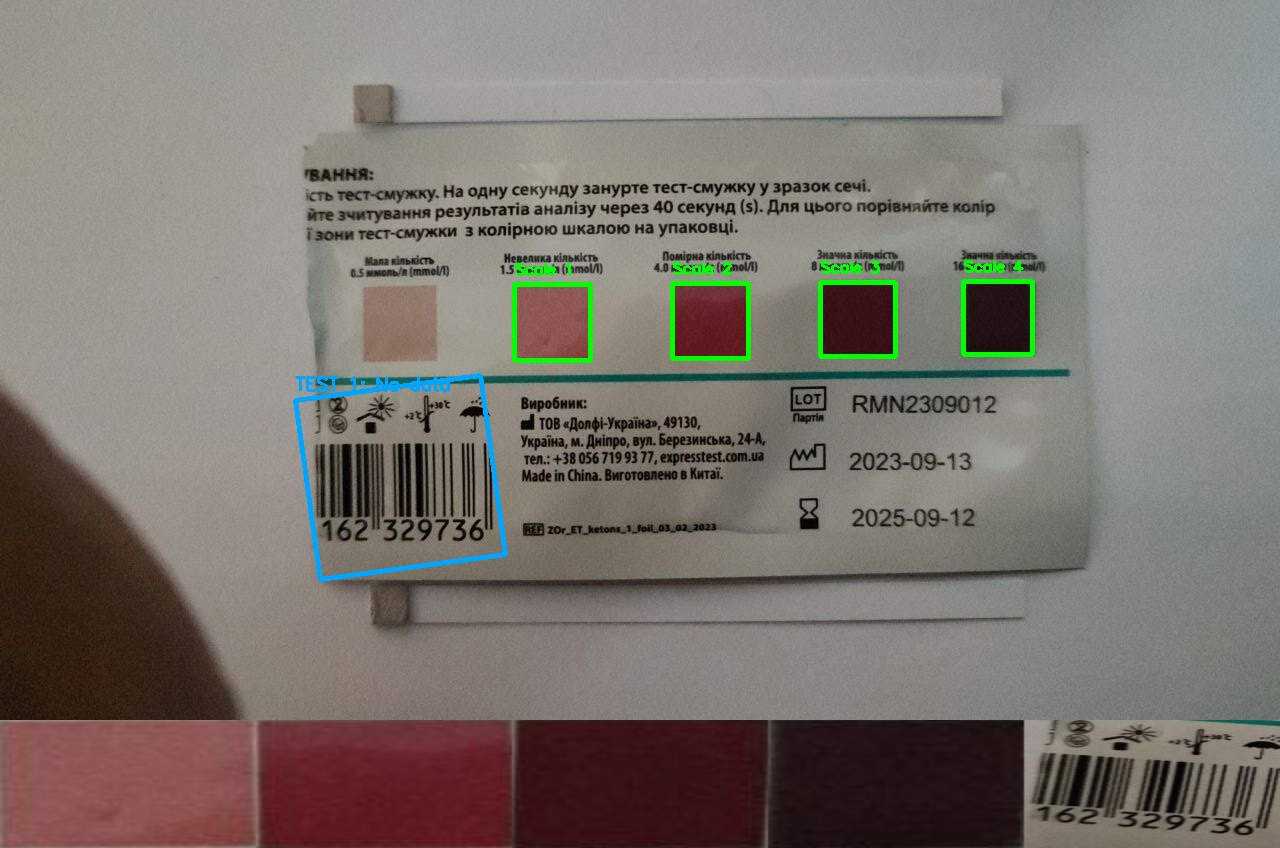
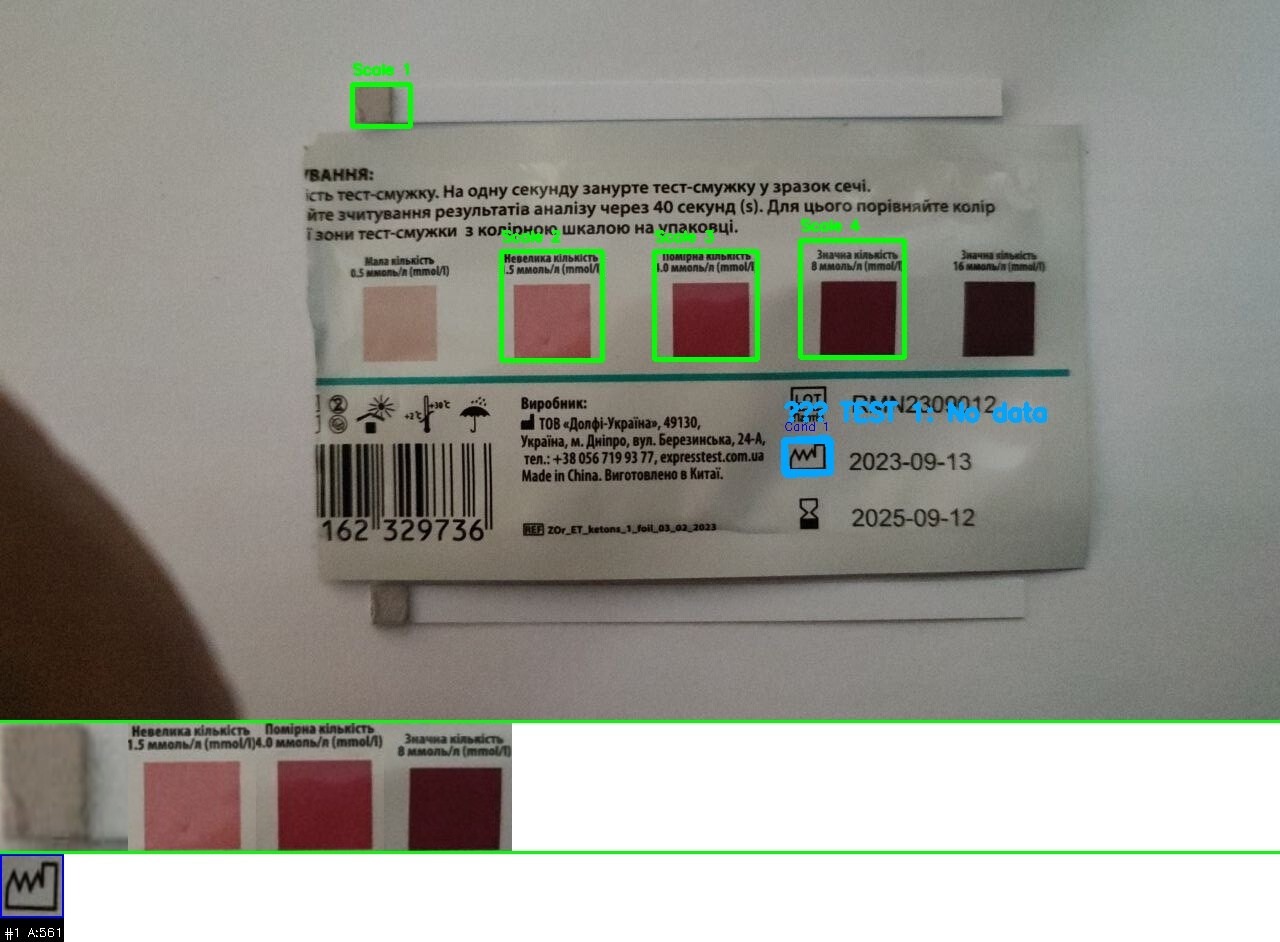
not good detection

diff --git a/auto_split_05.py b/auto_split_05.py
@@ -46,7 +46,9 @@ COLOR_TEXT = (255, 255, 255)   # белый - текст
 
 # Пути по умолчанию
 folder_path = 'кетоны/19_febr/'
-file = 'weeked_light_plus_yellow_lamp_rot'
+folder_path = 'кетоны/свет0.5-вид сверху/'
+file = 'weeked_light_rot'
+file = 'full'
 ext = '.jpg'
 
 # DEBUG флаги
@@ -312,19 +314,19 @@ def find_squares_in_image(img, a_min_ratio, a_max_ratio):
     hsv = cv2.cvtColor(img, cv2.COLOR_BGR2HSV)
     s_channel = hsv[:, :, 1]
     s_thresh = cv2.adaptiveThreshold(s_channel, 255, cv2.ADAPTIVE_THRESH_GAUSSIAN_C,
-                                     cv2.THRESH_BINARY, 31, -2)
+                                     cv2.THRESH_BINARY, 21, -2)
     
     # ДОПОЛНИТЕЛЬНАЯ маска для тёмных/чёрных объектов
     gray = cv2.cvtColor(img, cv2.COLOR_BGR2GRAY)
-    edges = cv2.Canny(gray, 30, 100)
-    kernel_edge = cv2.getStructuringElement(cv2.MORPH_RECT, (7, 7))
+    edges = cv2.Canny(gray, 40, 120)
+    kernel_edge = cv2.getStructuringElement(cv2.MORPH_RECT, (3, 3))
     edges_closed = cv2.morphologyEx(edges, cv2.MORPH_CLOSE, kernel_edge, iterations=2)
     
     # Для маленьких объектов (тестовых квадратов) добавляем специальные маски
     v_channel = hsv[:, :, 2]
     v_inverted = 255 - v_channel
     v_dark_mask = cv2.adaptiveThreshold(v_inverted, 255, cv2.ADAPTIVE_THRESH_GAUSSIAN_C,
-                                        cv2.THRESH_BINARY, 31, -2)
+                                        cv2.THRESH_BINARY, 21, -2)
     
     # Для маленьких объектов - используем расширенную маску с локальным контрастом
     if a_min_ratio < 0.0005:
@@ -345,15 +347,17 @@ def find_squares_in_image(img, a_min_ratio, a_max_ratio):
     # 2. Морфологическая очистка
     # ВАЖНО: Для маленьких объектов (тестовых квадратов) пропускаем MORPH_CLOSE,
     # чтобы не объединить квадрат с полоской в один контур
-    kernel = cv2.getStructuringElement(cv2.MORPH_RECT, (5, 5))
+    
     
     if a_min_ratio < 0.0005:  # Тестовые квадраты - очень маленькие
         # Только открытие (удаление шума), без закрытия
-        mask_clean = cv2.morphologyEx(mask_combined, cv2.MORPH_OPEN, kernel, iterations=1)
+        kernel = cv2.getStructuringElement(cv2.MORPH_RECT, (5, 5))
+        mask_clean = cv2.morphologyEx(mask_combined, cv2.MORPH_OPEN, kernel, iterations=2)
         print(f"    [Режим маленьких объектов] Пропускаем MORPH_CLOSE чтобы сохранить детали")
     else:  # Референсные квадраты - используем обе операции
-        mask_closed = cv2.morphologyEx(mask_combined, cv2.MORPH_CLOSE, kernel, iterations=2)
-        mask_clean = cv2.morphologyEx(mask_closed, cv2.MORPH_OPEN, kernel, iterations=1)
+        kernel = cv2.getStructuringElement(cv2.MORPH_RECT, (3, 3))
+        mask_closed = cv2.morphologyEx(mask_combined, cv2.MORPH_CLOSE, kernel, iterations=1)
+        mask_clean = cv2.morphologyEx(mask_closed, cv2.MORPH_OPEN, kernel, iterations=2)
     
     # 3. Поиск контуров
     contours, _ = cv2.findContours(mask_clean, cv2.RETR_EXTERNAL, cv2.CHAIN_APPROX_SIMPLE)
